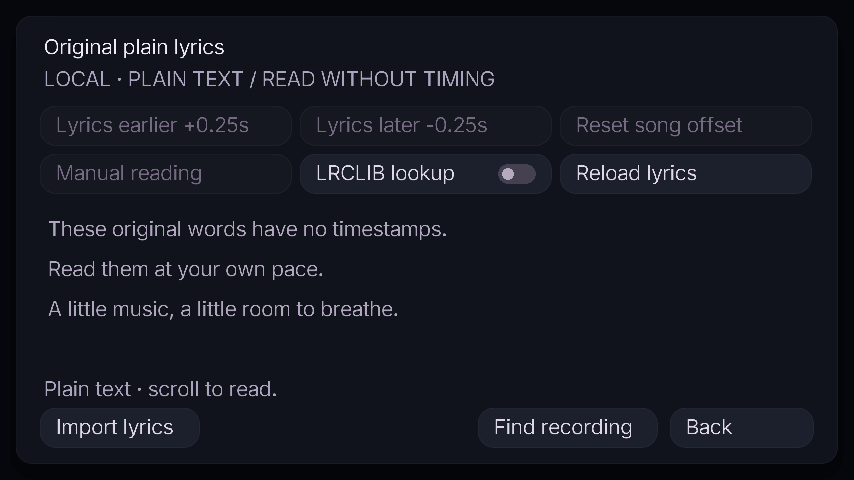
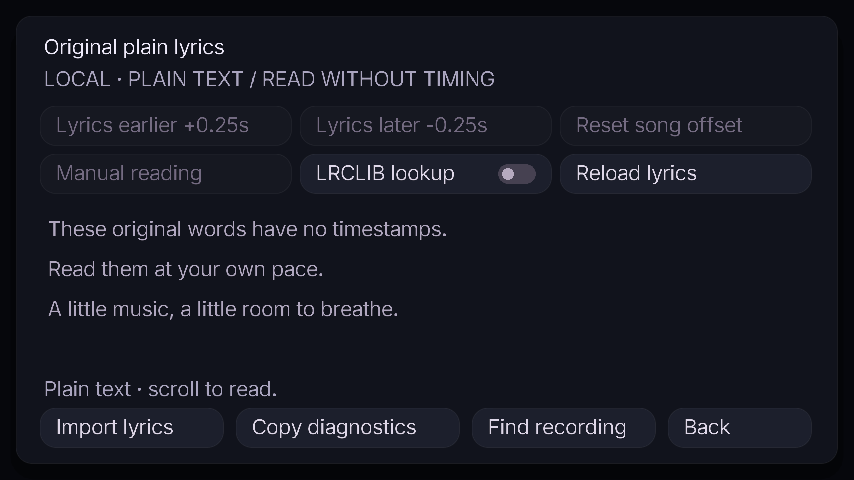
Fix Apple Music Windows lyrics metadata and add lookup diagnostics

Changed region(s): [[0.3044, 0.875, 0.4871, 0.9062], [0.5785, 0.875, 0.7307, 0.9062], [0.7916, 0.875, 0.8525, 0.9062]]

diff --git a/src/main/java/dev/bettermusic/LyricsService.java b/src/main/java/dev/bettermusic/LyricsService.java
@@ -33,6 +33,7 @@ public final class LyricsService implements AutoCloseable {
     private long searchGeneration;
     private String policy="";
     private boolean readerOpen;
+    private final List<String> lookupSteps=new ArrayList<>();
     public List<Candidate> candidates(){return candidates;}
     public boolean candidatesFor(Track track){return candidateTrack.equals(LyricCorrections.key(track));}
     public String candidateStatus(){return candidateStatus;}
@@ -62,6 +63,8 @@ public final class LyricsService implements AutoCloseable {
         long ticket=generation,searchTicket=searchGeneration;String expected=key;candidates=List.of();candidateTrack=LyricCorrections.key(track);candidateStatus="Searching LRCLIB ...";
         candidatePending=worker.submit(()->{try{
             JsonElement response=request("search?track_name="+enc(track.title())+"&artist_name="+enc(LyricsMatch.artist(track)),ticket);
+            if(response==null||response.isJsonArray()&&response.getAsJsonArray().isEmpty())
+                response=request("search?track_name="+enc(track.title()),ticket);
             var found=new ArrayList<Candidate>();
             if(response!=null&&response.isJsonArray())for(JsonElement row:response.getAsJsonArray()){
                 if(!row.isJsonObject())continue;var j=row.getAsJsonObject();var rich=Lyricsfile.parse(LyricsMatch.string(j,"lyricsfile"));boolean synced=!rich.lines().isEmpty()||!LyricsMatch.string(j,"syncedLyrics").isBlank();
@@ -70,7 +73,9 @@ public final class LyricsService implements AutoCloseable {
                     found.add(new Candidate(recordId,LyricsMatch.string(j,"trackName"),LyricsMatch.string(j,"artistName"),LyricsMatch.string(j,"albumName"),duration,synced,rich.wordSync()));}catch(RuntimeException ignored){}
                 if(found.size()==20)break;
             }
-            found.sort(Comparator.comparing((Candidate c)->!c.wordSync()).thenComparing(c->!c.synced()).thenComparingDouble(c->Math.abs(c.duration()-track.duration())));
+            found.sort(Comparator.comparing((Candidate c)->!LyricsMatch.normalized(c.title()).equals(LyricsMatch.normalized(track.title())))
+                .thenComparing(c->!LyricsMatch.normalized(c.artist()).equals(LyricsMatch.normalized(LyricsMatch.artist(track))))
+                .thenComparingDouble(c->Math.abs(c.duration()-track.duration())).thenComparing(c->!c.wordSync()).thenComparing(c->!c.synced()));
             synchronized(this){if(generation==ticket&&searchGeneration==searchTicket&&expected.equals(key)){candidates=List.copyOf(found);candidateStatus=found.isEmpty()?"No alternative lyrics found":"Choose the recording that matches your music";}}
         }catch(InterruptedException e){Thread.currentThread().interrupt();}
         catch(Exception e){synchronized(this){if(generation==ticket&&searchGeneration==searchTicket)candidateStatus=e instanceof LrclibClient.CoolingDown?e.getMessage():"Search unavailable; try again later";}}});
@@ -79,19 +84,37 @@ public final class LyricsService implements AutoCloseable {
     public String attribution(){return result.source();}
     public String sourceUrl(){return result.url();}
     public Path folder(){return folder;}
+    /** Explicit clipboard export only: no lyrics, artwork, filesystem paths, or listening history. */
+    public synchronized String diagnostics(Track track,Settings settings){
+        var text=new StringBuilder(LrclibClient.USER_AGENT).append("\nLyrics lookup diagnostics\n");
+        text.append("HUD lyrics: ").append(settings.lyrics).append("\nOnline lookup: ").append(settings.onlineLyrics).append('\n');
+        if(settings.streamer)return text.append("Track metadata and lookup details hidden by streamer mode\n").toString();
+        var metadata=LyricsMatch.metadata(track);
+        text.append("Player: ").append(debugValue(track.source())).append("\nRaw title: ").append(debugValue(track.title()))
+            .append("\nRaw artist: ").append(debugValue(track.artist())).append("\nRaw album: ").append(debugValue(track.album()))
+            .append("\nQuery artist: ").append(debugValue(metadata.artist())).append("\nQuery album: ").append(debugValue(metadata.album()))
+            .append("\nDuration: ").append(track.duration()).append("s\n");
+        if(!policy.equals(identity(track,settings)))return text.append("Track changed; waiting for lookup\n").toString();
+        text.append("Status: ").append(result.message()).append("\nSource: ").append(result.url()).append('\n');
+        if(candidatesFor(track))text.append("Find recording: ").append(candidateStatus).append(" ( ").append(candidates.size()).append(" candidates )\n");
+        for(String step:lookupSteps)text.append("- ").append(step).append('\n');
+        return text.toString();
+    }
+    private static String debugValue(String value){String safe=value.replaceAll("[\\p{Cntrl}]"," ");return safe.substring(0,Math.min(512,safe.length()));}
+    private synchronized void trace(long ticket,String detail){if(generation!=ticket)return;if(lookupSteps.size()==8)lookupSteps.removeFirst();lookupSteps.add(detail);}
     private void cancelSearch(){searchGeneration++;if(candidatePending!=null)candidatePending.cancel(true);candidates=List.of();candidateTrack="";candidateStatus="Search alternate recordings with online lookup enabled";}
-    public synchronized void reload(){generation++;key="";result=Result.status("Reloading lyrics ...");if(pending!=null)pending.cancel(true);cancelSearch();cache.clear();}
+    public synchronized void reload(){generation++;key="";lookupSteps.clear();result=Result.status("Reloading lyrics ...");if(pending!=null)pending.cancel(true);cancelSearch();cache.clear();}
     public static String filename(Track t){
         String name=(t.artist()+" - "+t.title()).replaceAll("[<>:\"/\\\\|?*\\p{Cntrl}]","_").replaceAll("[. ]+$","");
         if(name.length()>180)name=name.substring(0,140)+"-"+UUID.nameUUIDFromBytes(name.getBytes(StandardCharsets.UTF_8));
         return name+".lrc";
     }
-    private static String identity(Track t,Settings s){return LyricCorrections.key(t)+"\n"+s.onlineLyrics;}
+    private static String identity(Track t,Settings s){return LyricCorrections.key(t)+"\n"+t.source()+"\n"+s.onlineLyrics;}
     public synchronized void update(Track t,Settings s){
         if(closed)return;
-        String nextPolicy=LyricCorrections.key(t)+":"+s.onlineLyrics;
+        String nextPolicy=identity(t,s);
         if(!policy.equals(nextPolicy)){
-            policy=nextPolicy;generation++;key="";if(pending!=null)pending.cancel(true);cancelSearch();result=Result.status("Looking for lyrics ...");
+            policy=nextPolicy;generation++;key="";lookupSteps.clear();if(pending!=null)pending.cancel(true);cancelSearch();result=Result.status("Looking for lyrics ...");
         }
         String currentCorrection=LyricCorrections.key(t);
         if(!currentCorrection.equals(correctionKey)){
@@ -127,10 +150,11 @@ public final class LyricsService implements AutoCloseable {
                 finish(ticket,record(chosen.getAsJsonObject(),true));return;
             }
             Cached saved=cache.get(id);
-            if(saved!=null&&saved.expires()>System.nanoTime()){finish(ticket,saved.result());return;}
+            if(saved!=null&&saved.expires()>System.nanoTime()){trace(ticket,"Loaded cached result; Reload lyrics forces a fresh request");finish(ticket,saved.result());return;}
             String query="track_name="+enc(track.title())+"&artist_name="+enc(LyricsMatch.artist(track));
             String exact=query;
-            if(!track.album().isBlank())exact+="&album_name="+enc(track.album());
+            String album=LyricsMatch.metadata(track).album();
+            if(!album.isBlank())exact+="&album_name="+enc(album);
             if(track.duration()>=1&&track.duration()<=3600)exact+="&duration="+track.duration();
             JsonElement response=request("get?"+exact,ticket);
             JsonObject chosen=response!=null&&response.isJsonObject()&&LyricsMatch.matches(response.getAsJsonObject(),track,false)?response.getAsJsonObject():null;
@@ -150,8 +174,21 @@ public final class LyricsService implements AutoCloseable {
         catch(Exception e){finish(ticket,Result.status(e instanceof LrclibClient.CoolingDown?e.getMessage():"Lyrics unavailable · Reload to retry"));BetterMusic.LOG.debug("Lyrics lookup failed",e);}
     }
     private JsonElement request(String path,long ticket)throws Exception{
-        if(provider!=null){check(ticket);JsonElement response=provider.get(path);check(ticket);return response;}
-        return client.get(path,()->check(ticket));
+        String stage=path.startsWith("get/")?"Saved recording":path.startsWith("get?")?"Exact lookup":path.contains("artist_name=")?"Title + artist search":"Title-only candidate search";
+        trace(ticket,stage+": requesting");
+        try{
+            check(ticket);JsonElement response=provider!=null?provider.get(path):client.get(path,()->check(ticket));check(ticket);
+            trace(ticket,stage+": "+(response==null?"no record":response.isJsonArray()?response.getAsJsonArray().size()+" records returned":"record returned"));return response;
+        }catch(InterruptedException e){throw e;}
+        catch(Exception e){trace(ticket,stage+": "+failureReason(e));throw e;}
+    }
+    private static String failureReason(Exception e){
+        if(e instanceof LrclibClient.CoolingDown)return e.getMessage();
+        if(e instanceof HttpTimeoutException)return "request timed out";
+        if(e instanceof javax.net.ssl.SSLException)return "TLS connection failed";
+        if(e instanceof java.io.IOException&&e.getMessage()!=null&&e.getMessage().startsWith("LRCLIB "))return e.getMessage();
+        if(e instanceof JsonParseException)return "invalid JSON response";
+        return "request failed ("+e.getClass().getSimpleName()+")";
     }
     private void check(long ticket)throws InterruptedException{if(closed||generation!=ticket||Thread.currentThread().isInterrupted())throw new InterruptedException();}
     private synchronized void finish(long ticket,Result value){if(!closed&&generation==ticket)result=value;}

diff --git a/src/test/java/dev/bettermusic/LyricsDiagnosticsTest.java b/src/test/java/dev/bettermusic/LyricsDiagnosticsTest.java
@@ -1,0 +1,62 @@
+package dev.bettermusic;
+
+import com.google.gson.*;
+import org.junit.jupiter.api.Test;
+import org.junit.jupiter.api.io.TempDir;
+import java.nio.file.Path;
+import java.util.concurrent.CopyOnWriteArrayList;
+import static org.junit.jupiter.api.Assertions.*;
+
+class LyricsDiagnosticsTest {
+    @TempDir Path folder;
+    private Track track(){return new Track("Example song","DJ Example — Example album - Single","AppleInc.AppleMusicWin_nzyj5cx40ttqa!App",false,10,200,"private-artwork-url",System.nanoTime(),"");}
+    private Settings settings(){var settings=new Settings();settings.lyrics=true;settings.onlineLyrics=true;return settings;}
+    private void await(java.util.function.BooleanSupplier pending)throws Exception{long end=System.nanoTime()+3_000_000_000L;while(pending.getAsBoolean()&&System.nanoTime()<end)Thread.sleep(5);assertFalse(pending.getAsBoolean(),"Background lookup did not finish");}
+    @Test void titleOnlyCandidatesRequireSelectionAndPersistAsAManualMatch()throws Exception{
+        var calls=new CopyOnWriteArrayList<String>();var track=track();var settings=settings();
+        var row=LyricsDiscoveryTest.recording(track.title(),"Example album",201);row.addProperty("artistName","Example");
+        try(var service=new LyricsService(folder,path->{calls.add(path);if(path.startsWith("get/"))return row;if(path.startsWith("get?"))return null;var rows=new JsonArray();if(!path.contains("artist_name="))rows.add(row);return rows;})){
+            service.update(track,settings);await(()->service.status().equals("Looking for lyrics ..."));
+            assertTrue(service.attribution().isEmpty(),"An artist mismatch must not silently select a recording");
+            service.searchCandidates(track,settings);await(()->service.candidateStatus().equals("Searching LRCLIB ..."));
+            assertEquals(1,service.candidates().size());assertTrue(calls.contains("search?track_name=Example+song"));
+            service.saveCorrection(track,0,service.candidates().getFirst().id(),false);service.update(track,settings);
+            await(()->service.status().equals("Looking for lyrics ..."));assertEquals("LRCLIB · MANUAL MATCH",service.attribution());
+        }
+        try(var reopened=new LyricsService(folder,path->{assertEquals("get/32429053",path);return row;})){
+            reopened.update(track,settings);await(()->reopened.status().equals("Looking for lyrics ..."));assertEquals("LRCLIB · MANUAL MATCH",reopened.attribution());
+        }
+    }
+    @Test void diagnosticsExplainMetadataAndFailuresWithoutLyricsOrPaths()throws Exception{
+        var track=track();var settings=settings();
+        try(var service=new LyricsService(folder,path->{throw new java.io.IOException("LRCLIB HTTP 502");})){
+            service.update(track,settings);await(()->service.status().equals("Looking for lyrics ..."));String report=service.diagnostics(track,settings);
+            assertTrue(report.contains("Raw artist: DJ Example — Example album - Single"));assertTrue(report.contains("Query artist: DJ Example\n"));assertTrue(report.contains("Query album: Example album - Single"));
+            assertTrue(report.contains("Exact lookup: LRCLIB HTTP 502"));assertFalse(report.contains("private-artwork-url"));assertFalse(report.contains(folder.toString()));
+            settings.streamer=true;String redacted=service.diagnostics(track,settings);assertFalse(redacted.contains("Example"));assertFalse(redacted.contains("502"));assertTrue(redacted.contains("hidden by streamer mode"));
+        }
+    }
+    @Test void diagnosticSuccessOmitsLyricTextAndStaleTrackResults()throws Exception{
+        var track=LyricsDiscoveryTest.appleTrack(133);var settings=settings();
+        try(var service=new LyricsService(folder,path->LyricsDiscoveryTest.matching())){
+            service.update(track,settings);await(()->service.status().equals("Looking for lyrics ..."));String report=service.diagnostics(track,settings);
+            assertTrue(report.contains("Exact lookup: record returned"));assertTrue(report.contains("https://lrclib.net/api/get/32429053"));assertFalse(report.contains("Original fixture"));
+            String changed=service.diagnostics(track(),settings);assertFalse(changed.contains("32429053"));assertFalse(changed.contains("record returned"));assertTrue(changed.contains("Track changed"));
+        }
+    }
+    @Test void unknownDurationUsesRecoveredAlbumToDisambiguate() {
+        var track=new Track("Example song","Example artist — Example album - Single","AppleMusic",false,0,0,"",0,"");
+        var records=new JsonArray();var original=LyricsDiscoveryTest.recording(track.title(),"Example album",200);original.addProperty("artistName","Example artist");records.add(original);
+        var other=original.deepCopy();other.addProperty("albumName","Live album");other.addProperty("duration",260);records.add(other);
+        assertSame(original,LyricsMatch.best(records,track));
+    }
+    @Test void switchingPlayersDoesNotReuseAppleSpecificMetadataMatching()throws Exception{
+        var apple=track();var settings=settings();var row=LyricsDiscoveryTest.recording(apple.title(),"Example album",200);row.addProperty("artistName","DJ Example");
+        try(var service=new LyricsService(folder,path->path.startsWith("get?")?row:new JsonArray())){
+            service.update(apple,settings);await(()->service.status().equals("Looking for lyrics ..."));assertFalse(service.attribution().isBlank());
+            var other=new Track(apple.title(),apple.artist(),"Other player",false,10,200,"",0,"");
+            service.update(other,settings);await(()->service.status().equals("Looking for lyrics ..."));assertTrue(service.attribution().isBlank());
+            assertTrue(service.status().contains("No safe automatic match"));
+        }
+    }
+}

diff --git a/src/main/java/dev/bettermusic/LyricsMatch.java b/src/main/java/dev/bettermusic/LyricsMatch.java
@@ -8,18 +8,27 @@ import java.util.Locale;
 public final class LyricsMatch {
     private LyricsMatch(){}
     static String normalized(String value){return Normalizer.normalize(value,Normalizer.Form.NFKC).toLowerCase(Locale.ROOT).replace('&',',').replaceAll("[^\\p{L}\\p{N}]+"," ").strip();}
-    public static String artist(Track track){
-        String artist=track.artist();
-        // Apple Music can append the album to the artist. Only remove an independently confirmed album.
-        int separator=artist.lastIndexOf(" — ");
-        if(separator>0&&!track.album().isBlank()&&album(artist.substring(separator+3)).equals(album(track.album())))return artist.substring(0,separator).strip();
-        return artist;
+    public record Metadata(String artist,String album){}
+    public static Metadata metadata(Track track){
+        String artist=track.artist(),album=track.album();
+        String source=track.source().toLowerCase(Locale.ROOT);
+        boolean appleWindows=source.equals("applemusic")||source.startsWith("appleinc.applemusicwin_");
+        // Windows Apple Music puts "Artist — Album" into Artist and can leave AlbumTitle empty.
+        // Other players need independent album confirmation before we split their artist field.
+        for(int separator=artist.indexOf(" — ");separator>0;separator=artist.indexOf(" — ",separator+3)){
+            String suffix=artist.substring(separator+3).strip();
+            if(!suffix.isBlank()&&(!album.isBlank()&&album(suffix).equals(album(album))||album.isBlank()&&appleWindows))
+                return new Metadata(artist.substring(0,separator).strip(),album.isBlank()?suffix:album);
+        }
+        return new Metadata(artist,album);
     }
+    public static String artist(Track track){return metadata(track).artist();}
     public static String string(JsonObject object,String key){return object.has(key)&&!object.get(key).isJsonNull()?object.get(key).getAsString():"";}
     private static String album(String value){return normalized(value.replaceFirst("(?i)\\s+[-–—]\\s*(single|ep)\\s*$",""));}
     private static int albumRank(JsonObject record,Track track){
-        if(track.album().isBlank())return 1;
-        return album(string(record,"albumName")).equals(album(track.album()))?0:1;
+        String expected=metadata(track).album();
+        if(expected.isBlank())return 1;
+        return album(string(record,"albumName")).equals(album(expected))?0:1;
     }
     private static boolean knownDuration(Track track){return Double.isFinite(track.duration())&&track.duration()>0;}
     public static boolean matches(JsonObject record,Track track,boolean search){

diff --git a/src/test/java/dev/bettermusic/LyricsDiscoveryTest.java b/src/test/java/dev/bettermusic/LyricsDiscoveryTest.java
@@ -16,6 +16,21 @@ class LyricsDiscoveryTest {
     }
     static JsonObject matching(){return recording("GERÄT (bitte cancelt mich 2)","GERÄT (bitte cancelt mich 2)",133);}
     private void loaded(LyricsService service)throws Exception{long end=System.nanoTime()+3_000_000_000L;while(service.status().equals("Looking for lyrics ...")&&System.nanoTime()<end)Thread.sleep(5);assertNotEquals("Looking for lyrics ...",service.status());}
+    @Test void windowsAppleMusicCombinedArtistWithEmptyAlbumFindsLyrics()throws Exception{
+        var track=new Track("Example song","Example artist — Example album - Single","AppleInc.AppleMusicWin_nzyj5cx40ttqa!App",false,12,133,"",System.nanoTime(),"");
+        var queries=new java.util.concurrent.CopyOnWriteArrayList<String>();var settings=new Settings();settings.lyrics=true;settings.onlineLyrics=true;
+        try(var service=new LyricsService(folder,path->{
+            queries.add(java.net.URLDecoder.decode(path,java.nio.charset.StandardCharsets.UTF_8));
+            if(path.startsWith("get?"))return null;
+            var records=new JsonArray();var row=recording("Example song","Example album",133);row.addProperty("artistName","Example artist");records.add(row);return records;
+        })){
+            service.update(track,settings);loaded(service);
+            assertEquals("LRCLIB · LINE SYNC",service.attribution(),service.status());
+            assertEquals("get?track_name=Example song&artist_name=Example artist&album_name=Example album - Single&duration=133.0",queries.getFirst());
+            assertEquals("search?track_name=Example song&artist_name=Example artist",queries.getLast());
+            assertEquals("Example artist — Example album - Single",track.artist(),"Keep raw metadata for local filenames and corrections");
+        }
+    }
     @Test void appleSingleAlbumDoesNotHideAnExistingRecording()throws Exception{
         var calls=new AtomicInteger();var s=new Settings();s.lyrics=true;s.onlineLyrics=true;var track=appleTrack(133);
         try(var service=new LyricsService(folder,path->{calls.incrementAndGet();if(path.startsWith("get?"))return null;var records=new JsonArray();if(!path.contains("album_name="))records.add(matching());return records;})){

diff --git a/src/main/java/dev/bettermusic/LyricsScreen.java b/src/main/java/dev/bettermusic/LyricsScreen.java
@@ -32,9 +32,13 @@ public final class LyricsScreen extends Screen {
         followButton=button(left+12,top+69,bw,follow?"Following playback":"Resume following",()->{follow=true;followButton.setMessage(Overlay.smoothText("Following playback"));});
         button(left+16+bw,top+69,bw,"LRCLIB lookup: "+(BetterMusic.settings.onlineLyrics?"On":"Off"),()->{BetterMusic.settings.onlineLyrics=!BetterMusic.settings.onlineLyrics;BetterMusic.lyrics.update(BetterMusic.media.track(),BetterMusic.settings);BetterMusic.save();rebuildWidgets();});
         button(left+20+bw*2,top+69,bw,"Reload lyrics",()->BetterMusic.lyrics.reload());
-        button(left+pw-84,top+ph-28,72,"Back",this::onClose);
-        button(left+pw-180,top+ph-28,90,"Find recording",()->{var more=new AdvancedScreen(this);minecraft.setScreen(more);more.showPage(4);});
-        button(left+12,top+ph-28,80,"Import lyrics",()->minecraft.setScreen(new LyricsImportScreen(this)));
+        int footerWidth=(pw-42)/4;
+        button(left+12,top+ph-28,footerWidth,"Import lyrics",()->minecraft.setScreen(new LyricsImportScreen(this)));
+        button(left+18+footerWidth,top+ph-28,footerWidth+20,"Copy diagnostics",()->{
+            minecraft.keyboardHandler.setClipboard(BetterMusic.lyrics.diagnostics(BetterMusic.media.track(),BetterMusic.settings));notice="Diagnostics copied; includes current track metadata";
+        }).setTooltip(net.minecraft.client.gui.components.Tooltip.create(Overlay.smoothText("Copy current track metadata, query details and request results. No lyric text. Streamer mode redacts track details.")));
+        button(left+44+footerWidth*2,top+ph-28,footerWidth,"Find recording",()->{var more=new AdvancedScreen(this);minecraft.setScreen(more);more.showPage(4);});
+        button(left+50+footerWidth*3,top+ph-28,footerWidth-20,"Back",this::onClose);
     }
     private StudioScreen.StudioButton button(int x,int y,int w,String label,Runnable action){return addRenderableWidget(new StudioScreen.StudioButton(x,y,w,20,label,action));}
     private boolean currentTrack(){if(!trackKey.equals(LyricCorrections.key(BetterMusic.media.track()))){notice="Track changed; wait for the new lyrics";return false;}return true;}

diff --git a/src/smoke/java/dev/bettermusic/DevelopmentSmoke.java b/src/smoke/java/dev/bettermusic/DevelopmentSmoke.java
@@ -16,6 +16,7 @@ import java.nio.file.Files;
 public final class DevelopmentSmoke implements ClientModInitializer {
     private int ticks;
     private boolean started;
+    private String previousClipboard;
     private Track sample(boolean plain){return new Track(plain?"Original plain lyrics":"Small worlds, wide skies","Better Music demo","SMOKE",false,12,60,"",System.nanoTime(),"Original examples");}
     @Override public void onInitializeClient(){
         BetterMusic.media.close();
@@ -48,6 +49,10 @@ public final class DevelopmentSmoke implements ClientModInitializer {
             if(ticks==360){click(client.screen,"Lyrics earlier +0.25s");if(BetterMusic.lyrics.correction().offset()!=.25)throw new AssertionError("Offset button failed");BetterMusic.LOG.info("SMOKE PASS: lyrics reader timing button persisted +0.25s");}
             if(ticks==380){client.getWindow().setWindowed(854,480);client.options.guiScale().set(4);client.resizeDisplay();}
             if(ticks==390)Screenshot.grab(client.gameDirectory,"compact-reader-smoke.png",client.getMainRenderTarget(),1,message->BetterMusic.LOG.info("Smoke screenshot: {}",message.getString()));
+            if(ticks==394)previousClipboard=client.keyboardHandler.getClipboard();
+            if(ticks==395)click(client.screen,"Copy diagnostics");
+            if(ticks==397){String report=client.keyboardHandler.getClipboard();if(!report.contains("Raw artist: Better Music demo")||report.contains("A quiet start"))throw new AssertionError("Invalid diagnostics export");BetterMusic.LOG.info("SMOKE PASS: compact reader diagnostics copied metadata without lyrics");}
+            if(ticks==399)client.keyboardHandler.setClipboard(previousClipboard);
             if(ticks==400)client.setScreen(new LyricsScreen(client.screen));
             if(ticks==420)Screenshot.grab(client.gameDirectory,"plain-reader-smoke.png",client.getMainRenderTarget(),1,message->BetterMusic.LOG.info("Smoke screenshot: {}",message.getString()));
             if(ticks==440)client.setScreen(new StudioScreen(client.screen));

diff --git a/src/test/java/dev/bettermusic/LyricsMatchTest.java b/src/test/java/dev/bettermusic/LyricsMatchTest.java
@@ -31,4 +31,16 @@ class LyricsMatchTest {
         assertEquals(200.5,LyricsMatch.best(list,track("Track",200)).get("duration").getAsDouble());
         assertNull(LyricsMatch.best(list,track("Completely different track",200)));
     }
+    @Test void onlyAppleWindowsCanRecoverAnUnconfirmedAlbum(){
+        var apple=new Track("Track","Artist — Album — Deluxe - EP","AppleInc.AppleMusicWin_nzyj5cx40ttqa!App",false,0,200,"",0,"");
+        assertEquals(new LyricsMatch.Metadata("Artist","Album — Deluxe - EP"),LyricsMatch.metadata(apple));
+        var other=new Track("Track",apple.artist(),"Spotify",false,0,200,"",0,"");
+        assertEquals(new LyricsMatch.Metadata(other.artist(),""),LyricsMatch.metadata(other));
+        var clean=new Track("Track","Artist","AppleMusic",false,0,200,"",0,"");
+        assertEquals(new LyricsMatch.Metadata("Artist",""),LyricsMatch.metadata(clean));
+    }
+    @Test void confirmedAlbumCanContainAnEmDash(){
+        var track=new Track("Track","Artist — Album — Deluxe","Test",false,0,200,"",0,"Album — Deluxe");
+        assertEquals("Artist",LyricsMatch.artist(track));
+    }
 }

diff --git a/src/test/java/dev/bettermusic/LyricsLiveTest.java b/src/test/java/dev/bettermusic/LyricsLiveTest.java
@@ -10,9 +10,10 @@ import static org.junit.jupiter.api.Assertions.*;
 class LyricsLiveTest {
     @TempDir Path directory;
     @Test @EnabledIfEnvironmentVariable(named="BETTERMUSIC_LIVE_LYRICS",matches="1")
-    void appleMusicSingleAlbumFindsZenseryRecording()throws Exception{
+    void appleMusicWindowsCombinedMetadataFindsZenseryRecording()throws Exception{
         var settings=new Settings();settings.lyrics=true;settings.onlineLyrics=true;
-        var track=LyricsDiscoveryTest.appleTrack(133);
+        var catalog=LyricsDiscoveryTest.appleTrack(133);
+        var track=new Track(catalog.title(),catalog.artist()+" — "+catalog.album(),"AppleInc.AppleMusicWin_nzyj5cx40ttqa!App",false,12,133,"",System.nanoTime(),"");
         try(var service=new LyricsService(directory)){
             service.update(track,settings);long deadline=System.nanoTime()+25_000_000_000L;
             while(service.status().equals("Looking for lyrics ...")&&System.nanoTime()<deadline)Thread.sleep(50);

diff --git a/src/main/java/dev/bettermusic/LrclibClient.java b/src/main/java/dev/bettermusic/LrclibClient.java
@@ -11,7 +11,7 @@ import java.util.function.LongSupplier;
 
 /** Sequential, bounded requests. Cooldowns survive reloads and track changes. */
 final class LrclibClient {
-    static final String USER_AGENT="BetterMusicOverlay/1.4.1 (https://github.com/LootingVI/BetterMusicOverlay)";
+    static final String USER_AGENT="BetterMusicOverlay/1.4.2 (https://github.com/LootingVI/BetterMusicOverlay)";
     record Reply(int status,String type,String retryAfter,String body){}
     @FunctionalInterface interface Transport {Reply send(HttpRequest request)throws Exception;}
     @FunctionalInterface interface Pause {void sleep(long millis)throws InterruptedException;}

diff --git a/README.md b/README.md
@@ -42,6 +42,14 @@ The cards below are rendered by the mod with original example track text. The re
 
 </details>
 
+## Fixed in 1.4.2 — Apple Music on Windows sending the album inside the artist
+
+Apple Music's Windows media session can send `Artist — Album - Single` as the artist while leaving its album field empty. Earlier versions queried LRCLIB with that combined artist and rejected the correct recordings. The lookup now recovers the artist and album for this player format, including album names containing an em dash. Local lyric filenames and saved corrections keep their existing identities.
+
+**Find recording** also tries a title-only search when the artist search returns no records. This exposes entries filed under an artist alias or a different credit; choose **Use displayed recording** to save the match. Automatic selection continues to check title, artist, version, and known duration.
+
+The lyrics reader has **Copy diagnostics** for the current track: mod version, raw player metadata, normalized search metadata, lookup status, and request results. The report excludes lyric text, artwork and local file paths; Streamer mode redacts track details. Nothing is uploaded by this button. Check the report before sharing it in a bug report.
+
 ## Fixed in 1.4.1 — lyrics hidden by album metadata differences
 
 Apple Music can label an album with `- Single` or `- EP`, while LRCLIB stores the matching recording under another album spelling. The old lookup rejected those differences and repeated the album filter in its fallback search. For example, this hid the existing synchronized entry for **GERÄT (bitte cancelt mich 2)** by **Zensery**.
@@ -122,7 +130,7 @@ Click the timeline in the studio preview or **M** controls to seek, if the curre
 
 1. Install **Fabric Loader 0.19.5 or newer** for your Minecraft version.
 2. Install the matching **Fabric API** from https://modrinth.com/mod/fabric-api.
-3. Download **one** matching `better-music-overlay-<minecraft>-1.4.1.jar` from [GitHub Releases](https://github.com/LootingVI/BetterMusicOverlay/releases/latest) and copy it into your instance's `mods` folder. Remove the previous Better Music JAR when upgrading. Local builds are packaged under `dist/1.4.1/`.
+3. Download **one** matching `better-music-overlay-<minecraft>-1.4.2.jar` from [GitHub Releases](https://github.com/LootingVI/BetterMusicOverlay/releases/latest) and copy it into your instance's `mods` folder. Remove the previous Better Music JAR when upgrading. Local builds are packaged under `dist/1.4.2/`.
 4. Start music in a desktop app or browser and launch Minecraft.
 
 Separate builds are provided for **1.21.11, 26.1, 26.1.1, 26.1.2, 26.2, and 26.3**. Future 26.x releases are not automatically compatible. Minecraft 1.21.11 needs Java 21 or newer; the 26.x builds need Java 25 or newer.
@@ -174,11 +182,13 @@ Primary-source documentation checked on 2026-10-11:
 - [LyricFind Lyric Display](https://www.lyricfind.com/products/lyric-display): offers line- and word-synchronized display through its partner offering. Not integrated without an access arrangement.
 - [lyrics.ovh project documentation](https://github.com/NTag/lyrics.ovh): documents plain-text output and aggregation from lyrics websites. It does not document synchronized timestamps, so it is not used as an automatic timing fallback.
 
-Local LRC takes priority. Online lookup checks title, artist, and available duration within two seconds. Album spelling is a ranking preference; fallback search does not filter by album. Live/remix/acoustic qualifiers are retained. Without a player duration, search first prefers a matching album when available and accepts only results whose durations span no more than two seconds. Otherwise, choose the recording manually. Apple Music's appended album is removed from the artist only when it matches independently supplied album metadata, allowing Single/EP suffix differences.
+Local LRC takes priority. Online lookup checks title, artist, and available duration within two seconds. Album spelling is a ranking preference; fallback search does not filter by album. Live/remix/acoustic qualifiers are retained. Without a player duration, search first prefers a matching album when available and accepts only results whose durations span no more than two seconds. Otherwise, choose the recording manually. Apple Music's Windows `Artist — Album` format also works when the album field is empty. For other players, an appended album must match independently supplied album metadata, allowing Single/EP suffix differences.
 
 The card labels the source; **Lyrics → View lyrics source** opens the actual LRCLIB record when available. Requests identify this project, run sequentially with a 250 ms gap, and check HTTP status and content type before decoding JSON. HTTP 429 and 503 respect `Retry-After`, including waits longer than five minutes. Brief overloads get one retry; long cooldowns return immediately to keep the lyric worker responsive. Rich YAML uses a safe parser with size, depth, alias, and duplicate-key restrictions. No timing is synthesized from plain lyrics.
 
 ## Build and verification
+
+Release 1.4.2 was verified on 2026-10-13: 66 tests passed on each target (396 passes, zero failures). Two opt-in live LRCLIB tests passed separately; the Zensery check used the combined Windows artist/album field with an empty album field and loaded record 32429053. New regressions cover that metadata format, recovered album ranking, player changes, broader manual discovery, saved selections, and diagnostic privacy. Minecraft 1.21.11 and 26.3 checks exercised the reader and diagnostics clipboard action; the compact layout was visually inspected. All six JARs passed version/target, bundled dependency, smoke-harness exclusion, and SHA-256 checks.
 
 Release 1.4.1 was verified on 2026-10-12: 58 tests passed on each target (348 passes, zero failures). Two optional live LRCLIB tests passed separately, including the reported Zensery case using Apple Music's public title/album metadata. Deterministic regressions cover album edition differences, missing duration, ambiguous recording lengths, and rejection of incorrect artists or versions. The six packaged JARs passed metadata, dependency, smoke-harness exclusion, and checksum checks. This fix changes lookup logic; the in-game UI checks below were performed for 1.4.0.
 

diff --git a/docs/releases/v1.4.2.md b/docs/releases/v1.4.2.md
@@ -1,0 +1,15 @@
+# Better Music Overlay 1.4.2
+
+Fixes Apple Music on Windows sending `Artist — Album - Single` as the artist while leaving the album field empty. Previous versions searched for the combined artist and rejected otherwise matching lyrics. Version 1.4.2 separates this Apple Music metadata into the artist and album used for lookup and ranking. Local lyric filenames and saved corrections stay compatible.
+
+- **Find recording** falls back to a title-only search when the artist search returns no records. This makes differently credited entries available for manual selection. The chosen recording is saved for the track.
+- **Copy diagnostics** in the lyrics reader copies the mod version, raw and normalized metadata, status, and request results. It excludes lyrics, artwork and local paths; Streamer mode redacts track details. Nothing is uploaded automatically.
+- Automatic matching still checks the title, artist, recording qualifiers, and the two-second tolerance for a known duration. A broader manual search does not automatically select a different artist.
+
+Replace the previous Better Music Overlay JAR in `mods` with the JAR for your Minecraft version, then restart Minecraft. Enable **O → Lyrics → LRCLIB lookup**. Enable **Show lyrics** for the HUD, or open the lyrics reader independently.
+
+For an artist alias mismatch, open **Lyrics reader → Find recording**, click **Search alternate recordings**, cycle through the candidates and select **Use displayed recording**. If lookup still fails, use **Copy diagnostics** and inspect its current-track metadata before sharing it.
+
+Builds: **1.21.11, 26.1, 26.1.1, 26.1.2, 26.2, 26.3**. Fabric Loader and the matching Fabric API are required. Native media integration supports Windows 10/11.
+
+Verification: **66 tests per target, 396 passes, zero failures**. Two opt-in live LRCLIB tests passed separately, including synchronized lyrics for the reported Zensery recording using the combined Windows artist/album format. In-game checks on 1.21.11 and 26.3 exercised the lyrics reader and diagnostics clipboard action. Release JARs passed version/target, bundled dependency, smoke-harness exclusion and SHA-256 checks.
